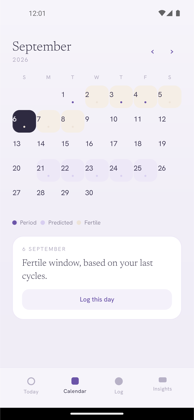
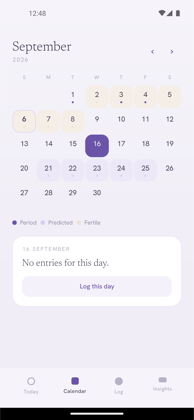
- Calendar view fixed - Redesigned start image

diff --git a/src/main/java/com/example/arc/ui/CalendarFragment.java b/src/main/java/com/example/arc/ui/CalendarFragment.java
@@ -113,6 +113,7 @@ public class CalendarFragment extends Fragment {
             lp.height = cellHeight;
             lp.columnSpec = GridLayout.spec(i % 7, 1, 1f);
             lp.rowSpec = GridLayout.spec(i / 7);
+            lp.setGravity(Gravity.FILL);
             lp.bottomMargin = (int) (4 * getResources().getDisplayMetrics().density);
             int gap = (int) (1 * getResources().getDisplayMetrics().density);
             lp.leftMargin = gap;
@@ -140,7 +141,7 @@ public class CalendarFragment extends Fragment {
         GradientDrawable shape = (GradientDrawable) cell.getBackground().mutate();
         int fill;
         if (isSelected) {
-            fill = color(R.color.arc_ink);
+            fill = color(R.color.arc_deep);
         } else if (kind == DayKind.PERIOD) {
             fill = color(R.color.arc_chip_on);
         } else if (kind == DayKind.PREDICTED_PERIOD) {
@@ -158,6 +159,9 @@ public class CalendarFragment extends Fragment {
                 color(R.color.arc_border_strong));
 
         TextView number = new TextView(requireContext());
+        number.setLayoutParams(new LinearLayout.LayoutParams(
+                ViewGroup.LayoutParams.MATCH_PARENT, ViewGroup.LayoutParams.WRAP_CONTENT));
+        number.setGravity(Gravity.CENTER);
         number.setText(String.valueOf(date.getDayOfMonth()));
         number.setTextSize(14.5f);
         number.setTypeface(ResourcesCompat.getFont(requireContext(), R.font.hanken_regular),
@@ -168,6 +172,7 @@ public class CalendarFragment extends Fragment {
         View dot = new View(requireContext());
         int d = (int) (4 * getResources().getDisplayMetrics().density);
         LinearLayout.LayoutParams dp = new LinearLayout.LayoutParams(d, d);
+        dp.gravity = Gravity.CENTER_HORIZONTAL;
         dp.topMargin = (int) (5 * getResources().getDisplayMetrics().density);
         dot.setLayoutParams(dp);
         if (symptoms.contains(date)) {
